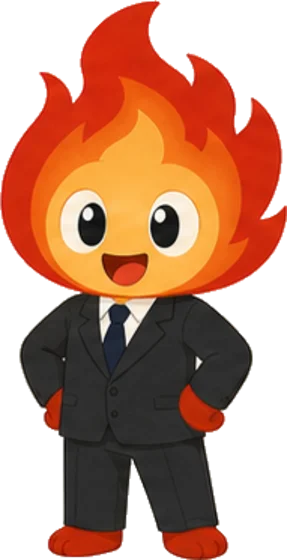
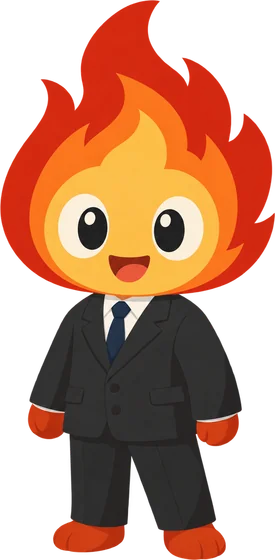
feat : COMMON-48 캐릭터 이미지 webp 변환 · public 반영 · stage.js 이미지 경로 수정

diff --git a/frontend/src/components/stage.js b/frontend/src/components/stage.js
@@ -30,21 +30,20 @@ const ROLE_COLOR = { 'AI 판사': 'law', '법정 진행': 'narrator', 볼따구:
 export const LAWS = ['law-scale', 'law-gavel', 'law-book'];
 const LAW_SPOTS = ['law-gavel', 'law-scale', 'law-book'];
 export const LAW_TITLES = { 'law-scale': '재판장', 'law-gavel': '배석판사', 'law-book': '배석판사' };
-// 로 이미지: 대기 · 생각(합의) · 발표 세 자세와 얼굴 아이콘. 원본 레포 컷 · 연기 시트에서 잘라 키(발 위치)를 맞춰 public에 둔다
+// 로 이미지: 대기 · 생각(합의) · 발표 세 자세와 얼굴 아이콘(마스코트 버전). 원본 레포 컷에서 투명 여백을 잘라 키(발 위치)를 맞춰 public에 둔다
 const LAW_POSES = ['idle', 'think', 'deliver'];
 const LAW_FADE_MS = 350; // 판사 페이드 시간 하나로: 첫 등장 · 자세 바뀜 · 사라짐(stage.css --law-fade와 같게)
-const lawImage = (who, pose) => `/images/characters/law/${who}_${pose}.webp`;
-// shortcut: 캐릭터 컷은 원본 이미지 레포 PNG를 직접 읽는다, 웹 webp 변환(WBS 7.6.8) 때 public 경로로 옮긴다
-const CUTS = 'https://raw.githubusercontent.com/peanutboi710/NaeLawNamBul_Images/main/character/cuts/';
-export const imageOf = (who, look) => (look.startsWith('role:') ? `/images/characters/roles/${who}_${look.slice(5)}.webp`
-  : look.startsWith('cheek:') ? `${CUTS}${who}/base/${who}_cut-cheek_${look.slice(6)}.png` // 볼따구(기다림)
-    : look.startsWith('deform:') ? `/images/characters/deform/${who}_${look.slice(7)}.webp` // 데포르메(란마 등, 시트에서 잘라 public에 둔다)
-    : `${CUTS}${who}/base/${who}_cut_${look}.png`);
+const IMAGES = '/images/characters/'; // 원본 PNG는 이미지 레포(NaeLawNamBul_Images), 웹용 webp는 public에 둔다
+const lawImage = (who, pose) => `${IMAGES}mascot/${who}_${pose}.webp`;
+export const imageOf = (who, look) => (look.startsWith('role:') ? `${IMAGES}roles/${who}_${look.slice(5)}.webp`
+  : look.startsWith('cheek:') ? `${IMAGES}cheek/${who}_${look.slice(6)}.webp` // 볼따구(기다림)
+    : look.startsWith('deform:') ? `${IMAGES}deform/${who}_${look.slice(7)}.webp` // 데포르메(란마 등, 시트에서 잘라 public에 둔다)
+    : `${IMAGES}scene/${who}_${look}.webp`);
 const FACES = ['neutral', 'happy', 'surprised', 'thinking', 'sorry', 'cheer'];
 const iconOf = (who, look) => {
-  if (who.startsWith('law-')) return `/images/characters/law/${who}_icon.webp`;
+  if (who.startsWith('law-')) return `${IMAGES}mascot/${who}_icon.webp`;
   const face = look.startsWith('role:') ? 'neutral' : look.split('-')[1];
-  return `${CUTS}${who}/icon/${who}_icon_face-${FACES.includes(face) ? face : 'neutral'}.png`;
+  return `${IMAGES}icon/${who}_face-${FACES.includes(face) ? face : 'neutral'}.webp`;
 };
 // 이름표는 역할 의상을 입었을 때만 단다(평상복이면 없음)
 const chipText = (look, role) => {

diff --git a/frontend/src/pages/landing/landingPage.js b/frontend/src/pages/landing/landingPage.js
@@ -35,8 +35,6 @@ const OBJECTS = {
 const ADMIN_MUG = { label: '관리자 페이지', route: homeRoute(), mobileText: '사건 검수 · 운영' }; // 관리자로 로그인하면 마이페이지 자리 (FE-53)
 const SOON = '곧 열려요';
 // 책상 위 내로 · 남불(기준 좌표계 px, 오른쪽 끝에서 잰다 — FE-50에서 소품 배치를 좌우로 뒤집었다).
-// shortcut: 원본 이미지 레포 PNG를 직접 읽는다, 웹 webp 변환(WBS 7.6.8) 때 public 경로로 옮긴다
-const CUTS = 'https://raw.githubusercontent.com/peanutboi710/NaeLawNamBul_Images/main/character/cuts/';
 const CHEEKS = [
   { who: 'naero', look: 'idle-sorry', right: 644, top: 2, height: 170 }, // 가운데에서 살짝 오른쪽(가운데 x ≈ 960), 턱이 신문 위쪽 가장자리에 걸친다
   { who: 'nambul', look: 'idle-thinking', right: 1300, top: 782, height: 158 },
@@ -185,7 +183,7 @@ export function renderLandingPage(container, { api, navigate, section, from }) {
 
   const cheeks = CHEEKS.map(({ who, look, right, top, height }) => {
     const image = element('img', `desk-cheek cheek-${who}`);
-    image.src = `${CUTS}${who}/base/${who}_cut-cheek_${look}.png`;
+    image.src = `/images/characters/cheek/${who}_${look}.webp`;
     image.alt = '';
     image.setAttribute('aria-hidden', 'true');
     Object.assign(image.style, { right: `${right}px`, top: `${top}px`, height: `${height}px` });

diff --git a/frontend/src/components/stage.css b/frontend/src/components/stage.css
@@ -77,9 +77,9 @@
 .stage-wrap .laws.entering { animation: laws-in var(--law-fade) ease-out; }
 @keyframes laws-in { from { opacity: 0; } }
 .stage-wrap .law-slot { --home: 50%; position: absolute; bottom: 0; left: var(--home); width: 20%; height: 100%; translate: -50% 0; transform-origin: bottom center; transition: left .45s ease-in-out, opacity var(--law-fade) ease-out, filter .3s, transform .3s; }
-/* 키 · 체형(캐릭터 프로필 4-3): 로울 230 · 로북 210 · 로봉 190(떡대라 키 비율보다 조금 크게) */
-.stage-wrap .law-slot.law-gavel { --home: 30%; height: 88%; }
-.stage-wrap .law-slot.law-book { --home: 70%; height: 91.3%; }
+/* 키 · 체형(마스코트 로, 내로 · 남불 120 기준): 로울 180 · 로북 170 · 로봉 160 → 로울 100% · 로북 94.4% · 로봉 88.9% */
+.stage-wrap .law-slot.law-gavel { --home: 30%; height: 88.9%; }
+.stage-wrap .law-slot.law-book { --home: 70%; height: 94.4%; }
 .stage-wrap .law-slot[data-place="center"] { left: 50%; }
 .stage-wrap .law-slot[data-place="side"] { left: 17%; }
 .stage-wrap .laws.resolving .law-slot[data-place="center"] { transition-delay: var(--law-fade), 0s, 0s, 0s; }

diff --git a/frontend/src/pages/caseList/caseListPage.js b/frontend/src/pages/caseList/caseListPage.js
@@ -51,8 +51,7 @@ const SOON = { badge: '준비 중', tone: 'soon' };
 const statusViewOf = (item) => STATUS_VIEW[item.myStatus] ?? (scriptFor(item.caseId, item.title) ? NOT_STARTED : SOON);
 const PICK_LABEL = '사건 펼쳐 보기';
 const JUMP_LABEL = '3면에 계속'; // 신문의 이어 읽기 줄(jump line). 누르면 사건 지면(S-20, 3면)으로 간다
-// shortcut: 캐릭터 얼굴은 원본 이미지 레포 PNG를 직접 읽는다(무대와 같음), 웹 webp 변환(WBS 7.6.8) 때 public 경로로 옮긴다
-const NAMBUL_FACE = 'https://raw.githubusercontent.com/peanutboi710/NaeLawNamBul_Images/main/character/cuts/nambul/icon/nambul_icon_face-happy.png';
+const NAMBUL_FACE = '/images/characters/icon/nambul_face-happy.webp';
 const UNFLIP_MS = 450; // 8막에서 뒤집고 온 빈 종이 · 바탕을 걷는 시간(그동안 기사가 페이드인한다)
 const RISE_WAIT_MS = 1200; // 책상에서 들고 올 때 지면이 다 그려지기를 기다리는 최대 시간(그동안 책상은 신문을 든 채로 남아 있다)
 const headlineOf = (item) => item.headline || item.title;

diff --git a/frontend/src/pages/verdict/verdictPage.js b/frontend/src/pages/verdict/verdictPage.js
@@ -8,8 +8,8 @@ import { markAiRevealIntro } from '../ai/aiRevealIntro.js';
 import { reducedMotion } from '../../utils/motion.js';
 
 const penaltyLabels = { DEATH: '사형', LIFE: '무기징역', PRISON: '징역', FINE: '벌금' };
-// 해금 책갈피의 얼굴(내로). shortcut: 원본 이미지 레포 PNG를 직접 읽는다(무대와 같음), 웹 webp 변환(WBS 7.6.8) 때 public 경로로 옮긴다
-const BOOKMARK_FACE = 'https://raw.githubusercontent.com/peanutboi710/NaeLawNamBul_Images/main/character/cuts/naero/icon/naero_icon_face-happy.png';
+// 해금 책갈피의 얼굴(내로)
+const BOOKMARK_FACE = '/images/characters/icon/naero_face-happy.webp';
 const SIGN_MS = 900; // 서명 획이 다 그려지는 시간(verdict.css .sign-ink와 같게). 그다음 확정을 보낸다
 
 // 원문을 유지해 빈 칸, 0, 잘못 입력한 값을 구별한다.

diff --git a/frontend/src/utils/bookmarkCharacter.js b/frontend/src/utils/bookmarkCharacter.js
@@ -5,9 +5,7 @@ const DEFAULT = 'naero';
 export const BOOKMARK_CHARACTERS = ['naero', 'nambul'];
 export const BOOKMARK_NAMES = { naero: '내로', nambul: '남불' };
 
-// shortcut: 원본 이미지 레포 PNG를 직접 읽는다(FE-48 책갈피와 같음), 웹 webp 변환(WBS 7.6.8) 때 public 경로로 옮긴다
-const FACES = 'https://raw.githubusercontent.com/peanutboi710/NaeLawNamBul_Images/main/character/cuts/';
-export const bookmarkFace = (who) => `${FACES}${who}/icon/${who}_icon_face-happy.png`;
+export const bookmarkFace = (who) => `/images/characters/icon/${who}_face-happy.webp`;
 
 export function getBookmarkCharacter(storage = globalThis.localStorage) {
   try {

diff --git a/docs/decisions/COMMON-48.md b/docs/decisions/COMMON-48.md
@@ -1,0 +1,32 @@
+# COMMON-48 의사결정 기록
+
+## 문제 / 배경
+- `stage.js` 등 화면 코드는 내로 · 남불의 장면 컷 · 볼따구 컷 · 아이콘을 이미지 저장소(`NaeLawNamBul_Images`) `main`의 raw PNG 주소로 직접 읽고 있었다(코드에 `shortcut:` 주석으로 표시, 웹 webp 변환 때 `public`으로 옮기기로 한 임시 방식).
+- COMMON-46에서 이미지 저장소의 `cuts/{캐릭터}/base/`를 `scene` · `cheek` · `cheek-slim` · `role` · `mascot` 하위 폴더로 나눴고, 옛 경로가 404가 되어 장면 컷 · 볼따구 컷이 화면에서 깨졌다.
+- 이번에 쓸 이미지가 거의 모여(마스코트 로 컷, 역할 정식 컷, 볼따구 재생성 등) 임시 방식을 끝내고 webp로 옮기기로 했다.
+
+## 검토한 대안
+- 대안 A: 코드의 raw URL만 새 폴더 경로로 고친다.
+  - 장점: 변경이 작다.
+  - 단점: 이미지 저장소 폴더를 또 바꾸면 같은 문제가 반복된다. PNG(원본 크기)를 그대로 받아 느리고, 저장소 가용성에 화면이 묶인다. `shortcut` 상태가 계속된다.
+- 대안 B: 화면에 쓰는 컷을 webp로 변환해 `frontend/public/images/characters/`에 두고, 코드는 그 경로만 읽는다.
+  - 장점: 이미지 저장소 구조와 화면이 분리된다. 크기가 작고 같은 출처에서 받는다.
+  - 단점: 이미지를 바꿀 때 변환 · 복사 한 번이 더 든다. 레포 용량이 늘어난다(약 4MB).
+- 로 이미지: 기존 `law/`(성인 비율) 대신 마스코트 버전을 새 폴더 `mascot/`에 두고 화면이 그쪽을 읽게 한다. 옛 `law/`는 지우지 않고 둔다(되돌릴 길 확보).
+
+## 선택한 방법과 이유
+- 대안 B. 임시 방식(`shortcut`)을 끝내고, 이후 이미지 저장소의 폴더 구조가 바뀌어도 화면이 깨지지 않게 한다.
+- 폴더는 기존 평면 구조(`law/` · `roles/` · `personality/`)를 따라 `scene/` · `cheek/` · `icon/` · `mascot/` · `standing/`을 추가했다. 아키텍처 문서의 `{캐릭터}/base/…` 구조는 도입하지 않았다(지금 코드와 맞지 않고 파일 수가 적어서).
+- 규격: 장면 · 볼따구 컷 800 × 1000(4:5), 품질 85. 아이콘 128 × 128. 합의 · 비교 컷 1600 × 900. 역할 컷과 로 컷은 기존 `roles/` · `law/`처럼 투명 여백을 잘라 높이 560으로 맞춘다.
+- 마스코트 로의 키 비율은 로울 180 · 로북 170 · 로봉 160(내로 · 남불 120 기준)이라 `stage.css`의 슬롯 높이를 100% · 94.4% · 88.9%로 바꿨다. 마스코트 로는 아이콘이 없어, 대기 컷의 머리 부분을 잘라 만들었다.
+
+## 고려한 제약 사항
+- 이미지 저장소 PNG 경로는 PR #2에서 바뀌어 이미 `develop` 화면이 깨져 있었다. 그래서 이 작업을 미루지 않고 한 번에 묶었다.
+- 역할 컷(`roles/`)은 기존에 시트에서 잘라 쓰던 것을 정식 컷으로 교체했다. 이름은 같고 키 기준(높이 560)도 같게 유지했다.
+- 시트(기준 · 연기 · 의상 · 데포르메 · 라인업)는 화면에서 쓰지 않아 변환하지 않았다.
+- `public`에 이미 있는 성향 이미지 32장, 사건 1 재연 컷, 공용 재연 컷은 이번에 건드리지 않았다.
+
+## 추후 재검토가 필요하면
+- 옛 `law/`(성인 비율 로 12장)는 코드에서 더 이상 읽지 않는다. 확인 후 지우면 용량을 줄일 수 있다.
+- `case-1/script.json`의 사건 1 신문 · 증거 사진은 아직 이미지 저장소 raw URL이다(경로는 그대로). 같은 이유로 `public`으로 옮길지 검토한다.
+- 마스코트 로 3명이 가로로 넓어져 합의 장면(`laws`)에서 서로 겹치는지는 실제 화면에서 확인해야 한다.

diff --git a/docs/character/character-image-checklist.md b/docs/character/character-image-checklist.md
@@ -35,6 +35,7 @@
 | v0.29 | 2026-10-15 | PR #149 리뷰 결정(COMMON-35): 재연 컷 "양쪽 감정을 같은 무게로" 규칙 철회(이미지가 판결에 미칠 영향은 추후 필요 시 조절), 공용 컷 세트 2는 오차를 감수하고 공용으로 유지(추후 백엔드: 파일명에 상황 설명 + 사건별 자동 매칭), 지시서 · HTML 보고서 대신 수작업(`작업-가이드.md`)으로 진행 |
 | v0.30 | 2026-10-19 | 스테이징 신규 이미지 12장 반영(COMMON-46) — A6 마스코트 로 6장 · G2 소품 시트 · H1 내로 · 남불 의상 시트 · 사건 1 재연 컷 3장. 파일 이름은 이 문서 규칙대로, `_original/`에도 백업. 검수는 아직 |
 | v0.31 | 2026-10-20 | 스테이징 신규 이미지 반영(COMMON-46) — H0 라인업 시트 5장 · H1 로 의상 시트 3장 · H2 마스코트 로 컷 9 + 합의 · 비교 컷 3장 · H3 · H4 역할 컷 10장(검수는 아직). **볼따구(B4) 컷 4장을 시트 `deform-cheek` 기준(짧은 만두형 몸통 · 납작한 볼)으로 다시 만들어** `base/cheek/`에 넣고, 옛 컷은 `base/cheek-slim/`(`cut-cheek-slim_*`)에 보존, 그 그림체 시트 2장(`deform-cheek-slim`)을 추가. `cuts/{캐릭터}/base/`를 `scene` · `cheek` · `cheek-slim` · `role` · `mascot` 하위 폴더로 나눔(이미지 저장소와 로컬 동일) |
+| v0.32 | 2026-10-20 | **웹 webp 반영(COMMON-48)** — 시트를 뺀 화면용 이미지를 webp로 변환해 `frontend/public/images/characters/`에 추가(`scene` 16 · `cheek` 4 · `icon` 12 · `mascot` 15 · `standing` 8 · `roles` 10, 역할 8장은 정식 컷으로 교체 + 사건 1 배역 2장). `stage.js` 등이 이미지 저장소 raw PNG 대신 이 webp를 읽고, 로 이미지는 마스코트 버전(`mascot/`)으로 바꿈. 이미지 저장소 `base/` 하위 폴더 정리로 옛 경로가 404가 된 문제도 함께 해결 |
 
 > 형식 · 이름 규칙 · 검수 기준은 [캐릭터 에셋 아키텍처](character-asset-architecture.md)가 기준이다(시트 2-2 · 장면 · 감정 코드 3-2 · 상황 4-1 · 크기 6-5 · 검수 7-2). 이 문서는 **무엇을 몇 장 만들고 어디까지 했는지**만 적는다.
 > 캐릭터 설정은 [캐릭터 프로필 · 세계관](character-profile-worldview.md), 성향 이미지 번호는 [성향 이미지 번호표](personality-image-numbers.md)가 기준이다.

diff --git a/docs/character/character-asset-architecture.md b/docs/character/character-asset-architecture.md
@@ -633,6 +633,8 @@ frontend/public/images/characters/
 | 레이어 (`layers/`) | 4:5 | 투명 webp 800 × 1000, 같은 기준점 | 투명 PNG 2048 × 2560 | 투명 |
 | 시트 | 16:9 | 넣지 않음 | 투명 PNG | 투명 |
 
+> **실제 웹 폴더(10/20, COMMON-48)**: 위 구조 대신 파일 수가 적어 평면으로 두었다. `frontend/public/images/characters/` 아래 `scene/{캐릭터}_{장면}-{감정}.webp`(800 × 1000) · `cheek/{캐릭터}_idle-{sorry|thinking}.webp`(800 × 1000) · `icon/{캐릭터}_face-{감정}.webp`(128 × 128) · `mascot/{로}_{idle|think|deliver|icon}.webp`(투명 여백을 잘라 높이 560, 아이콘은 머리 128 × 128) · `mascot/{trio_idle|trio_think|compare_trio-thinking}.webp`(1600 × 900) · `roles/{캐릭터}_{judge|prosecutor|defense|actor|case-1}.webp`(높이 560) · `standing/*.webp`(높이 800) · `personality/{01~32}.webp` · `deform/` · `law/`(옛 성인 비율 로, 지금 화면은 `mascot/`을 읽음). 변환 기준은 품질 85, 원본은 이미지 저장소 `NaeLawNamBul_Images`.
+
 - **생성 배경은 모두 투명이다(10/15).** 투명 출력이 안 되는 환경에서만 크로마 그린 `#00B140`으로 뽑아 배경을 지운다. 10/14까지 만든 시트 · 재연 컷은 신문지색 배경 그대로 쓴다.
 - 원본 PNG는 용량 때문에 레포에 넣지 않는다. 레포 밖 `~/Documents/NaeLawNamBul/character/`와 공개 레포 `NaeLawNamBul_Images`에 둔다.
 - 그림자 · 테두리 · 등장 움직임은 이미지에 넣지 않고 CSS로 준다. 색은 `style.css` 토큰만 쓴다(FE-17).
